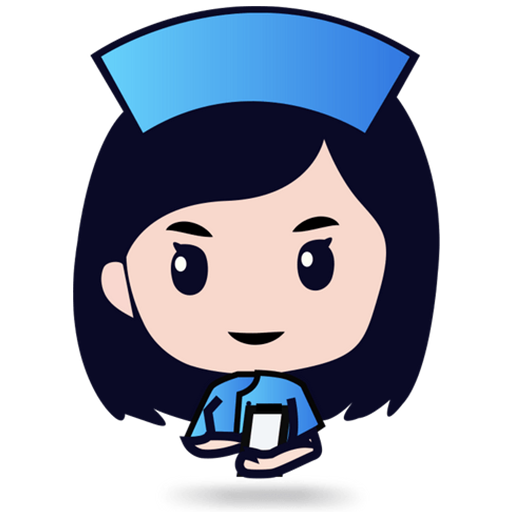
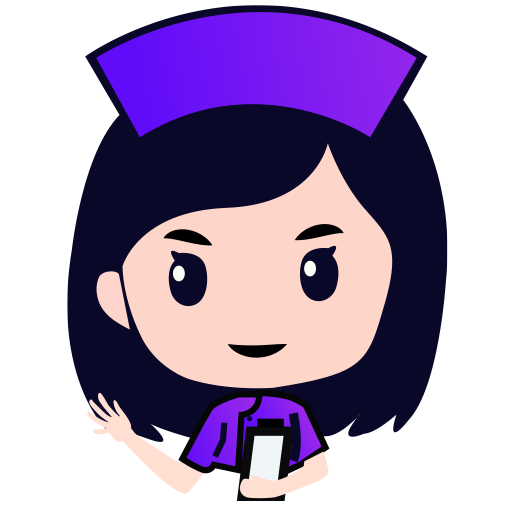
FHB-2352 myfhb color code change

diff --git a/lib/telehealth/features/MyProvider/view/BookingConfirmation.dart b/lib/telehealth/features/MyProvider/view/BookingConfirmation.dart
@@ -398,7 +398,7 @@ class BookingConfirmationState extends State<BookingConfirmation> {
                   width: 30,
                   height: 30,
                   decoration: BoxDecoration(
-                    color: Colors.blue[100], // border color
+                    color: Color(new CommonUtil().getMyPrimaryColor()), // border color
                     shape: BoxShape.circle,
                   ),
                   child: Padding(
@@ -407,7 +407,7 @@ class BookingConfirmationState extends State<BookingConfirmation> {
                       // or ClipRRect if you need to clip the content
                       decoration: BoxDecoration(
                         shape: BoxShape.circle,
-                        color: Colors.blue[800], // inner circle color
+                        color: Color(new CommonUtil().getMyPrimaryColor()), // inner circle color
                       ),
                       child: Center(
                         child: TextWidget(
@@ -525,7 +525,7 @@ class BookingConfirmationState extends State<BookingConfirmation> {
                                         child: IconButtonWidget(
                                           iconPath: Constants.NOTES_ICON_LINK,
                                           size: 18.0,
-                                          color: Colors.blue[800],
+                                          color: Color(new CommonUtil().getMyPrimaryColor()),
                                           padding: new EdgeInsets.all(1.0),
                                           onPressed: () {
                                             FetchRecords(
@@ -572,7 +572,7 @@ class BookingConfirmationState extends State<BookingConfirmation> {
                                         child: IconButtonWidget(
                                           iconPath: Constants.VOICE_ICON_LINK,
                                           size: 18.0,
-                                          color: Colors.blue[800],
+                                          color: Color(new CommonUtil().getMyPrimaryColor()),
                                           padding: new EdgeInsets.all(1.0),
                                           onPressed: () {
                                             FetchRecords(
@@ -619,7 +619,7 @@ class BookingConfirmationState extends State<BookingConfirmation> {
                                         child: IconButtonWidget(
                                           iconPath: Constants.RECORDS_ICON_LINK,
                                           size: 18.0,
-                                          color: Colors.blue[800],
+                                          color: Color(new CommonUtil().getMyPrimaryColor()),
                                           padding: new EdgeInsets.all(1.0),
                                           onPressed: () {
                                             FetchRecords(
@@ -674,7 +674,7 @@ class BookingConfirmationState extends State<BookingConfirmation> {
                                   widget.healthOrganizationResult[widget.i])),
                       fontsize: 22.0,
                       fontWeight: FontWeight.w500,
-                      colors: Colors.blue[800]),
+                      colors: Color(new CommonUtil().getMyPrimaryColor())),
                 ),
               ),
               SizedBoxWidget(height: 35.0),
@@ -706,9 +706,9 @@ class BookingConfirmationState extends State<BookingConfirmation> {
                       child: FlatButton(
                         shape: RoundedRectangleBorder(
                             borderRadius: BorderRadius.circular(12.0),
-                            side: BorderSide(color: Colors.blue[800])),
+                            side: BorderSide(color: Color(new CommonUtil().getMyPrimaryColor()))),
                         color: Colors.transparent,
-                        textColor: Colors.blue[800],
+                        textColor: Color(new CommonUtil().getMyPrimaryColor()),
                         padding: EdgeInsets.all(8.0),
                         onPressed: () {
                           new FHBUtils().check().then((intenet) {
@@ -818,9 +818,9 @@ class BookingConfirmationState extends State<BookingConfirmation> {
                                           borderRadius:
                                               BorderRadius.circular(12.0),
                                           side: BorderSide(
-                                              color: Colors.blue[800])),
+                                              color: Color(new CommonUtil().getMyPrimaryColor()))),
                                       color: Colors.transparent,
-                                      textColor: Colors.blue[800],
+                                      textColor: Color(new CommonUtil().getMyPrimaryColor()),
                                       padding: EdgeInsets.all(8.0),
                                       onPressed: () {
                                         addHealthRecords();

diff --git a/lib/device_integration/view/screens/Device_Value.dart b/lib/device_integration/view/screens/Device_Value.dart
@@ -110,7 +110,7 @@ class _EachDeviceValuesState extends State<EachDeviceValues> {
                 if (!snapshot.hasData) {
                   return new Center(
                     child: new CircularProgressIndicator(
-                      backgroundColor: Colors.blueAccent,
+                      backgroundColor: Color(new CommonUtil().getMyPrimaryColor()),
                     ),
                   );
                 }
@@ -174,7 +174,7 @@ class _EachDeviceValuesState extends State<EachDeviceValues> {
                 if (!snapshot.hasData) {
                   return new Center(
                     child: new CircularProgressIndicator(
-                      backgroundColor: Colors.blueAccent,
+                      backgroundColor: Color(new CommonUtil().getMyPrimaryColor()),
                     ),
                   );
                 }
@@ -242,7 +242,7 @@ class _EachDeviceValuesState extends State<EachDeviceValues> {
                 if (!snapshot.hasData) {
                   return new Center(
                     child: new CircularProgressIndicator(
-                      backgroundColor: Colors.blueAccent,
+                      backgroundColor: Color(new CommonUtil().getMyPrimaryColor()),
                     ),
                   );
                 }
@@ -307,7 +307,7 @@ class _EachDeviceValuesState extends State<EachDeviceValues> {
                 if (!snapshot.hasData) {
                   return new Center(
                     child: new CircularProgressIndicator(
-                      backgroundColor: Colors.blueAccent,
+                      backgroundColor: Color(new CommonUtil().getMyPrimaryColor()),
                     ),
                   );
                 }
@@ -372,7 +372,7 @@ class _EachDeviceValuesState extends State<EachDeviceValues> {
                 if (!snapshot.hasData) {
                   return new Center(
                     child: new CircularProgressIndicator(
-                      backgroundColor: Colors.blueAccent,
+                      backgroundColor: Color(new CommonUtil().getMyPrimaryColor()),
                     ),
                   );
                 }
@@ -927,7 +927,7 @@ Widget TypeIcon(String type) {
     );
   } else if (type == strsourceSheela) {
     return Image.asset(
-      'assets/maya/maya_us.png',
+      'assets/maya/maya_us_main.png',
       height: 32.0,
       width: 32.0,
     );

diff --git a/lib/record_detail/screens/record_detail_screen.dart b/lib/record_detail/screens/record_detail_screen.dart
@@ -1238,7 +1238,7 @@ class _RecordDetailScreenState extends State<RecordDetailScreen> {
                       : widget?.data?.metadata?.sourceName == 'SHEELA'
                           ? Container(
                               child: Image.asset(
-                                'assets/maya/maya_us.png',
+                                'assets/maya/maya_us_main.png',
                                 height: 100.0,
                                 width: 100.0,
                               ),
@@ -1253,7 +1253,7 @@ class _RecordDetailScreenState extends State<RecordDetailScreen> {
               : widget?.data?.metadata?.sourceName == 'SHEELA'
                   ? Container(
                       child: Image.asset(
-                      'assets/maya/maya_us.png',
+                      'assets/maya/maya_us_main.png',
                       height: 100,
                       width: 100,
                     ))
@@ -1368,7 +1368,7 @@ class _RecordDetailScreenState extends State<RecordDetailScreen> {
       builder: (BuildContext context, snapshot) {
         if (snapshot.connectionState == ConnectionState.waiting) {
           new CircularProgressIndicator(
-            backgroundColor: Colors.blue,
+            backgroundColor: Color(new CommonUtil().getMyPrimaryColor()),
           );
         } else if (snapshot.hasError) {
           return new Text('Error: ${snapshot.error}');

diff --git a/lib/add_family_user_info/screens/add_family_user_info_clone.dart b/lib/add_family_user_info/screens/add_family_user_info_clone.dart
@@ -1638,7 +1638,7 @@ class AddFamilyUserInfoScreenState extends State<AddFamilyUserInfoScreen> {
           } else if (snapshot.connectionState == ConnectionState.waiting) {
             return Center(
               child: CircularProgressIndicator(
-                backgroundColor: Colors.blue,
+                backgroundColor: Color(new CommonUtil().getMyPrimaryColor()),
               ),
             );
           } else {
@@ -1711,7 +1711,7 @@ class AddFamilyUserInfoScreenState extends State<AddFamilyUserInfoScreen> {
           } else if (snapshot.connectionState == ConnectionState.waiting) {
             return Center(
               child: CircularProgressIndicator(
-                backgroundColor: Colors.blue,
+                backgroundColor: Color(new CommonUtil().getMyPrimaryColor()),
               ),
             );
           } else {
@@ -1782,7 +1782,7 @@ class AddFamilyUserInfoScreenState extends State<AddFamilyUserInfoScreen> {
           } else if (snapshot.connectionState == ConnectionState.waiting) {
             return Center(
               child: CircularProgressIndicator(
-                backgroundColor: Colors.blue,
+                backgroundColor: Color(new CommonUtil().getMyPrimaryColor()),
               ),
             );
           } else {

diff --git a/lib/add_family_user_info/screens/add_family_user_info.dart b/lib/add_family_user_info/screens/add_family_user_info.dart
@@ -605,7 +605,7 @@ class AddFamilyUserInfoScreenState extends State<AddFamilyUserInfoScreen> {
           } else if (snapshot.connectionState == ConnectionState.waiting) {
             return Center(
               child: CircularProgressIndicator(
-                backgroundColor: Colors.blue,
+                backgroundColor: Color(new CommonUtil().getMyPrimaryColor()),
               ),
             );
           } else {
@@ -661,7 +661,7 @@ class AddFamilyUserInfoScreenState extends State<AddFamilyUserInfoScreen> {
           } else if (snapshot.connectionState == ConnectionState.waiting) {
             return Center(
               child: CircularProgressIndicator(
-                backgroundColor: Colors.blue,
+                backgroundColor: Color(new CommonUtil().getMyPrimaryColor()),
               ),
             );
           } else {
@@ -716,7 +716,7 @@ class AddFamilyUserInfoScreenState extends State<AddFamilyUserInfoScreen> {
           } else if (snapshot.connectionState == ConnectionState.waiting) {
             return Center(
               child: CircularProgressIndicator(
-                backgroundColor: Colors.blue,
+                backgroundColor: Color(new CommonUtil().getMyPrimaryColor()),
               ),
             );
           } else {

diff --git a/lib/telehealth/features/Payment/ResultPage.dart b/lib/telehealth/features/Payment/ResultPage.dart
@@ -4,6 +4,7 @@ import 'package:myfhb/constants/fhb_constants.dart';
 import 'package:myfhb/constants/fhb_parameters.dart';
 import 'package:myfhb/src/model/home_screen_arguments.dart';
 import 'package:myfhb/telehealth/features/MyProvider/view/TelehealthProviders.dart';
+import 'package:myfhb/common/CommonUtil.dart';
 
 class ResultPage extends StatefulWidget {
   final bool status;
@@ -27,7 +28,7 @@ class _ResultPage extends State<ResultPage> {
   Widget build(BuildContext context) {
     return new Scaffold(
       body: Container(
-        color: Colors.blue[600],
+        color: Color(new CommonUtil().getMyPrimaryColor()),
         child: Center(
           child: Container(
             child: SingleChildScrollView(
@@ -66,7 +67,7 @@ class _ResultPage extends State<ResultPage> {
                       shape: RoundedRectangleBorder(
                           borderRadius: BorderRadius.circular(8.0),
                           side: BorderSide(color: Colors.white)),
-                      color: Colors.blue[600],
+                      color: Color(new CommonUtil().getMyPrimaryColor()),
                       textColor: Colors.white,
                       padding: EdgeInsets.all(12.0),
                       onPressed: () {

diff --git a/lib/authentication/widgets/country_code_picker.dart b/lib/authentication/widgets/country_code_picker.dart
@@ -2,6 +2,7 @@ import 'package:flutter/material.dart';
 import 'package:country_pickers/country.dart';
 import 'package:country_pickers/country_pickers.dart';
 import 'package:myfhb/authentication/constants/constants.dart'as constants;
+import 'package:myfhb/common/CommonUtil.dart';
 
 class CountryCodePickerPage extends StatefulWidget {
   CountryCodePickerPage(
@@ -25,7 +26,7 @@ class _CountryCodePickerState extends State<CountryCodePickerPage> {
             data: Theme.of(context).copyWith(primaryColor: Colors.black),
             child: CountryPickerDialog(
               titlePadding: EdgeInsets.all(8.0),
-              searchCursorColor: Colors.blue,
+              searchCursorColor: Color(new CommonUtil().getMyPrimaryColor()),
               searchInputDecoration: InputDecoration(
                   hintText: constants.strSearchCountry,
                   hintStyle: TextStyle(

diff --git a/lib/telehealth/features/appointments/view/DoctorUpcomingAppointments.dart b/lib/telehealth/features/appointments/view/DoctorUpcomingAppointments.dart
@@ -376,9 +376,9 @@ class DoctorUpcomingAppointmentState extends State<DoctorUpcomingAppointments> {
                                           borderRadius:
                                               BorderRadius.circular(12.0),
                                           side: BorderSide(
-                                              color: Colors.blue[800])),
+                                              color: Color(new CommonUtil().getMyPrimaryColor()))),
                                       color: Colors.transparent,
-                                      textColor: Colors.blue[800],
+                                      textColor: Color(new CommonUtil().getMyPrimaryColor()),
                                       padding: EdgeInsets.all(8.0),
                                       onPressed: () {
                                         Navigator.pop(context,

diff --git a/lib/telehealth/features/Notifications/view/notification_screen.dart b/lib/telehealth/features/Notifications/view/notification_screen.dart
@@ -676,9 +676,9 @@ class _NotificationScreen extends State<NotificationScreen> {
                                           borderRadius:
                                               BorderRadius.circular(12.0),
                                           side: BorderSide(
-                                              color: Colors.blue[800])),
+                                              color: Color(new CommonUtil().getMyPrimaryColor()))),
                                       color: Colors.transparent,
-                                      textColor: Colors.blue[800],
+                                      textColor: Color(new CommonUtil().getMyPrimaryColor()),
                                       padding: EdgeInsets.all(8.0),
                                       onPressed: () {
                                         Navigator.pop(

diff --git a/lib/device_integration/viewModel/Device_model.dart b/lib/device_integration/viewModel/Device_model.dart
@@ -15,6 +15,7 @@ import 'package:flutter/services.dart';
 import 'package:myfhb/constants/fhb_parameters.dart' as parameters;
 import '../model/LastMeasureSync.dart';
 import '../model/DeviceIntervalData.dart';
+import 'package:myfhb/common/CommonUtil.dart';
 
 Future<String> _loadDeviceDataAsset() async {
   return await rootBundle.loadString('assets/devices.json');
@@ -56,7 +57,7 @@ class DevicesViewModel with ChangeNotifier {
         value_name: parameters.strOxgenSaturation,
         value1: 'OS',
         value2: '',
-        color: [Colors.blue, Colors.blueAccent]));
+        color: [Color(new CommonUtil().getMyPrimaryColor()), Color(new CommonUtil().getMyPrimaryColor())]));
     devicelist.add(DeviceData(
         title: Constants.STR_THERMOMETER,
         icon: Constants.Devices_THM,

diff --git a/lib/telehealth/features/appointments/view/appointmentsCommonWidget.dart b/lib/telehealth/features/appointments/view/appointmentsCommonWidget.dart
@@ -302,7 +302,7 @@ class AppointmentsCommonWidget {
               (count == null || count == 0 || count == '' || count == '0')
                   ? Container()
                   : BadgesBlue(
-                      backColor: Colors.blue,
+                      backColor: Color(new CommonUtil().getMyPrimaryColor()),
                       badgeValue: count,
                     )
             ],
@@ -371,7 +371,7 @@ class AppointmentsCommonWidget {
       child: Container(
         decoration: BoxDecoration(
             border: Border.all(
-              color: Colors.blue[200],
+              color: Color(new CommonUtil().getMyPrimaryColor()),
               width: 3,
             ),
             borderRadius: BorderRadius.circular(50.0),

diff --git a/lib/src/ui/bot/widgets/youtube_player.dart b/lib/src/ui/bot/widgets/youtube_player.dart
@@ -1,6 +1,7 @@
 import 'package:flutter/material.dart';
 import 'package:flutter/services.dart';
 import 'package:youtube_player_flutter/youtube_player_flutter.dart';
+import 'package:myfhb/common/CommonUtil.dart';
 
 class MyYoutubePlayer extends StatefulWidget {
   final String videoId;
@@ -75,7 +76,7 @@ class _YoutubePlayerState extends State<MyYoutubePlayer> {
       player: YoutubePlayer(
         controller: _controller,
         showVideoProgressIndicator: false,
-        progressIndicatorColor: Colors.blueAccent,
+        progressIndicatorColor: Color(new CommonUtil().getMyPrimaryColor()),
         topActions: <Widget>[
           const SizedBox(width: 8.0),
           // Expanded(
